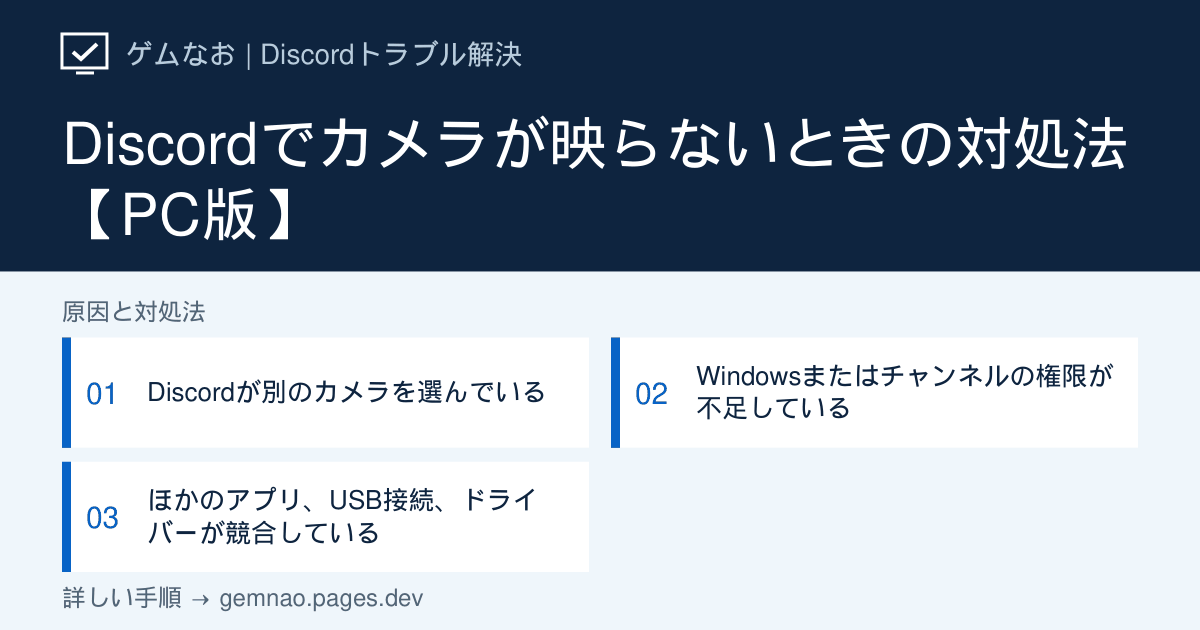
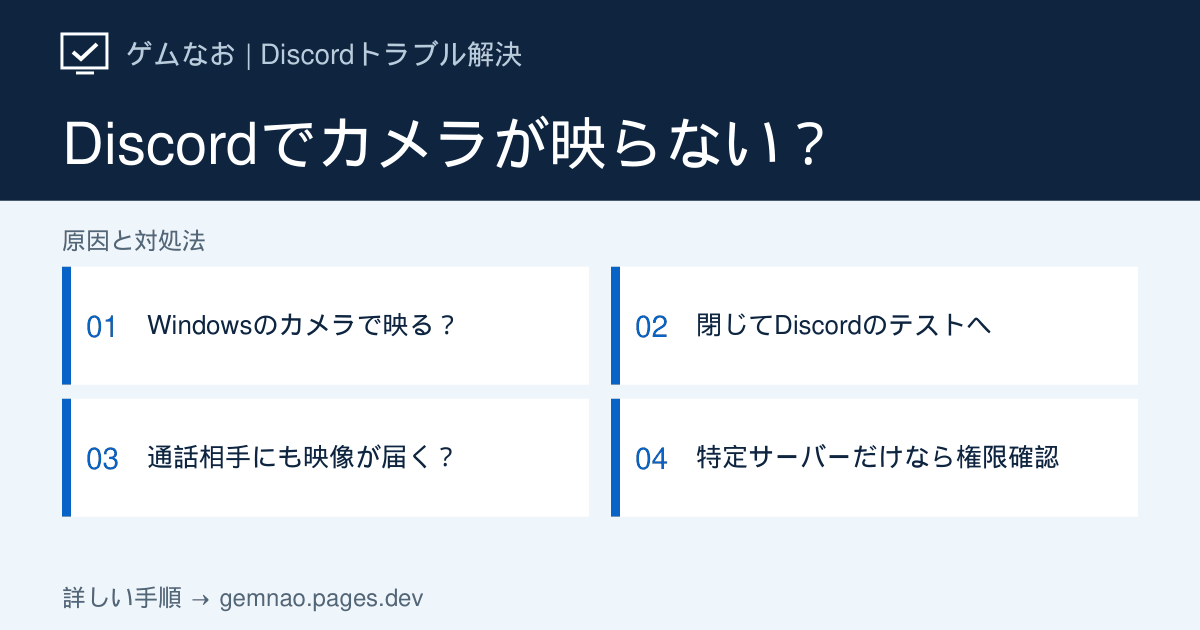
Rewrite Discord camera guide with preview and viewer diagnosis

diff --git a/lib/discord-growth-articles.ts b/lib/discord-growth-articles.ts
@@ -106,80 +106,100 @@ export const discordGrowthArticles: DiscordArticle[] = [
     status: 'verified',
   },
   {
-    slug: 'camera-not-working',
-    category: 'screen',
-    title: 'Discordでカメラが映らないときの対処法【PC版】',
+    slug: 'camera-not-working', category: 'screen',
+    title: 'Discordでカメラが映らない時の直し方【自分・相手の画面で切り分け】',
     shortTitle: 'カメラが映らない',
-    seoTitle: 'Discordでカメラが映らないときの対処法【PC版】',
-    metaDescription:
-      'Discordでカメラが映らない、黒い画面になる場合のPC向け対処法。カメラ選択、Windowsの権限、ドライバーとUSB接続を順に確認します。',
-    symptom:
-      'Discordのビデオ通話で自分の映像が出ない、プレビューが黒い、カメラを開始できない場合の手順です。カメラ自体の問題とDiscordの設定・権限を切り分けます。',
-    target: 'Windows 11 / Windows 10版 Discordデスクトップアプリ',
-    conclusion:
-      'Discordの「音声・ビデオ」で正しいカメラを選び、Windowsのカメラアクセスを許可します。次にほかのカメラ使用アプリを閉じ、USB接続とドライバーを確認してください。',
+    seoTitle: 'Discordでカメラが映らない・黒い時の直し方【Windows】',
+    metaDescription: 'Discordでカメラが映らない時は、Windowsカメラ・Discordプレビュー・相手の画面を順に比較。カメラ選択、アクセス許可、特定サーバーだけ使えない場合の確認手順を解説します。',
+    symptom: 'カメラが一覧に出ない、プレビューが黒い、自分には映るのに相手には映らない場合の手順です。ゲームの画面共有ではなく、内蔵・USBカメラのビデオ通話を対象にします。',
+    target: 'Windows 11／Windows 10のDiscordデスクトップアプリ',
+    conclusion: '最初にWindowsのカメラアプリで映るか確認し、アプリを閉じてからDiscordのビデオテストを試します。両方映らないなら機器・Windows側、Windowsだけ映るならDiscordの選択機器やデスクトップアプリの権限を確認。プレビューは映るのに相手に届かない場合は通話のカメラ開始と受信側を比較します。',
     quickFixes: [
-      'Discordの「音声・ビデオ」で使用するカメラを選び直す',
-      'Windowsのプライバシー設定でデスクトップアプリのカメラアクセスを許可する',
-      'ZoomやOBSなどカメラを使うアプリを閉じ、カメラを挿し直す',
+      'スタートで「カメラ」を検索し、Windowsのカメラアプリで映像を確認する',
+      'カメラアプリを閉じ、Discordの「音声・ビデオ」で同じカメラを選びビデオテストを行う',
+      'プレビューが映ったら通話でカメラをオンにし、相手にも映像が届くか確認する',
+    ],
+    diagnosisTitle: 'どの画面まで映る？ カメラの結果別判定表',
+    diagnosisIntro: 'Windowsカメラ・Discordのプレビュー・相手が受信した映像を区別します。カメラを使うアプリは同時に開かず、1つずつ終了して比較してください。',
+    diagnosis: [
+      { symptom: 'Windowsのカメラアプリでも黒い・機器が見つからない', check: 'レンズのカバー、カメラのスイッチ、接続、権限を確認', causeIndex: 2 },
+      { symptom: 'Windowsでは映る／Discordのプレビューは黒い', check: '同じカメラを選択し、デスクトップアプリのアクセス許可を確認', causeIndex: 3 },
+      { symptom: 'プレビューは映る／通話相手には映らない', check: '通話でカメラをオンにしたか、別の相手には届くか比較', causeIndex: 4 },
+      { symptom: 'DMでは映る／特定サーバーだけ開始できない', check: '対象チャンネルのビデオ権限を管理者に確認', causeIndex: 5 },
+      { symptom: '物理カメラは映る／仮想カメラだけ黒い', check: '仮想カメラを提供するソフトの映像出力を確認', causeIndex: 3 },
     ],
     causes: [
       {
-        title: 'Discordが別のカメラを選んでいる',
-        description:
-          '内蔵カメラとUSBカメラがあるPCでは、Discordが使っていない機器を選択している場合があります。',
+        title: 'Windows・Discord・相手の画面を順に比較する',
+        description: '設定をまとめて変える前に、どこまで映像を取得・送信できているか確認します。',
         actions: [
-          'Discordの歯車アイコンからユーザー設定を開く',
-          '「音声・ビデオ」を開き、カメラの一覧から使う機器を選ぶ',
-          'ビデオのプレビューで映像が表示されるか確認する',
+          'Discordのビデオをオフにし、Zoom・Teamsなどカメラを使うアプリを終了する。スタートで「カメラ」を検索して開く',
+          '複数のカメラがある場合は使う機器へ切り替える。レンズの前で手を動かし、映像が更新されるか確認する。エラーが出る場合は表示されたコードを控える',
+          'Windowsのカメラアプリを閉じる。Discord左下の歯車 →「音声・ビデオ」→ビデオ設定で使うカメラを選び、「ビデオをテスト」で同じ動きを確認する',
+          'Windowsでも映らないなら手順2へ。Windowsでは映るのにDiscordでは映らないなら手順3へ。プレビューが映ったら手順4で実際の通話を確認する',
+        ],
+        note: 'ビデオテストの成功は相手への送信成功とは別です。通話でカメラをオンにする操作と、相手の受信確認まで行ってください。',
+      },
+      {
+        title: 'Windowsでも映らない：カバー・接続・権限を確認',
+        description: 'Discordだけの設定を変える前に、Windowsで同じカメラを使える状態を確認します。',
+        actions: [
+          'レンズのプライバシーカバーが閉じていないか、PC本体のカメラスイッチやカメラ無効キーがオフになっていないか確認する',
+          'USBカメラはハブを介さずPCの別のUSB端子へ直接接続し、Windowsのカメラアプリで再確認する',
+          'Windows 11は「設定 → プライバシーとセキュリティ → カメラ」、Windows 10は「設定 → プライバシー → カメラ」を開く。カメラへのアクセスとカメラアプリのアクセスを許可する',
+          'まだ映らなければPCを再起動する。スタートを右クリック →「デバイス マネージャー」の「カメラ」などで機器名や警告表示を確認し、PC・カメラメーカーの対応ドライバーを確認する',
+          '別のカメラがあれば同じアプリで比較する。別機器だけ映るなら元のカメラ・接続側、両方映らないならWindowsのアクセス制限などを確認する',
+        ],
+        note: '設定が灰色で変更できない管理対象PCでは、管理者へ確認してください。権限や接続を調べる前にカメラ故障とは断定しません。',
+      },
+      {
+        title: 'Windowsだけ映る：Discordの機器選択とアクセス許可',
+        description: 'Windowsのカメラアプリで映っても、デスクトップアプリのアクセス許可やDiscordの選択機器は別に確認が必要です。',
+        actions: [
+          'Windowsのカメラアプリやほかの通話アプリを完全に終了し、Discordの「音声・ビデオ」で実際のカメラ名を選び直す',
+          'Windowsのカメラのプライバシー設定で「デスクトップ アプリがカメラにアクセスできるようにする」に相当する項目をオンにする。アプリ一覧にDiscordの個別スイッチがなくても、この設定を確認する',
+          '仮想カメラを選んでいる場合は物理カメラに切り替えて比較する。物理カメラだけ映るなら、仮想カメラを提供するソフトの起動・映像出力を確認する',
+          'Discordを終了して再起動し、再びビデオテストを行う。直らなければアプリを終了してからブラウザ版Discordで同じカメラを選び、サイトのカメラ利用を許可して比較する',
+          'ブラウザ版だけ映る場合はDiscordアプリの更新を確認する。続く場合は「音声・ビデオ」のビデオ設定でハードウェアアクセラレーションの現在値を控え、切り替えて再起動し比較する。変化がなければ元に戻す',
         ],
       },
       {
-        title: 'Windowsまたはチャンネルの権限が不足している',
-        description:
-          'Windowsのプライバシー設定や、Discordのボイスチャンネル権限でビデオが許可されていないと使用できません。',
+        title: '自分には映る：通話のカメラ開始と相手側を確認',
+        description: 'プレビューは送信前の確認画面です。相手に届かない場合は、実際の通話でカメラがオンになっているかを確認します。',
         actions: [
-          'Windowsの設定から「プライバシーとセキュリティ」→「カメラ」を開く',
-          'カメラへのアクセスと、デスクトップアプリのアクセスをオンにする',
-          '特定サーバーだけで使えない場合は、チャンネルのビデオ権限を管理者に確認する',
+          '設定画面を閉じて通話へ戻り、通話パネルのカメラアイコンでカメラをオンにする。プレビューの確認画面が出た場合は内容を確認して開始する',
+          '自分が手を動かし、相手に「映像がない」「黒い」「静止している」「動いている」のどれかを答えてもらう',
+          '可能なら別の参加者にも同じ映像を確認してもらう。1人だけ映らないなら、その相手に通話への再参加とDiscord再起動、ブラウザ版での比較を依頼する',
+          '全員に届かない場合は、自分のカメラをオフ・オンにして再確認する。DM通話で映るなら手順5へ、DMでも届かないならDiscord Statusと接続状態を確認し、可能なら別回線で比較する',
         ],
       },
       {
-        title: 'ほかのアプリ、USB接続、ドライバーが競合している',
-        description:
-          '別のアプリがカメラを使用中、またはUSB接続やドライバーに問題があるとDiscordから映像を取得できません。',
+        title: '特定サーバーだけ映らない：ビデオ権限を確認',
+        description: '同じ機器でDM通話は映るのに特定のボイスチャンネルだけ開始できない場合は、サーバー・チャンネルの条件を確認します。',
         actions: [
-          'Zoom、Teams、OBS、ブラウザなどカメラを使うアプリを終了する',
-          'USBカメラを別のUSBポートへ直接接続する',
-          'Windowsのカメラアプリで映像が出るか確認する',
-          'PCメーカーまたはカメラメーカーの公式手順でドライバーを更新する',
-          'Discordだけで黒画面になる場合はハードウェアアクセラレーションを切り替えて再起動する',
+          '同じ相手とのDM通話と、問題のボイスチャンネルで結果を比較する。別チャンネルでは開始できるかも確認する',
+          'サーバー管理者に「サーバー設定 → ロール」の対象ロールで「ビデオ」権限が許可されているか確認してもらう',
+          '対象ボイスチャンネルの編集画面 →「権限」で、ロールや個人への上書き設定も確認してもらう',
+          '必要な権限を変更したら入り直してカメラをオンにし、相手に映像が届くか再確認する。エラーや人数制限の表示がある場合は、その文言も管理者へ伝える',
         ],
       },
     ],
-    ifNotFixed:
-      'ブラウザ版DiscordとWindowsのカメラアプリで映るか確認してください。どちらでも映らない場合はDiscordではなく、カメラ本体・Windows・ドライバー側の問題です。Discordだけで再現する場合は、カメラ名と試した手順を添えて公式サポートへ連絡してください。',
+    ifNotFixed: 'Windowsカメラ／Discordプレビュー／相手の受信画面の結果、カメラ名、内蔵・USB・仮想の種別、DMとサーバーの違い、エラー文言を控えてください。Windowsでも映らない場合はPC・カメラメーカー、Discordだけの場合はDiscord公式サポートへ、この比較結果と試した操作を伝えます。',
     faqs: [
-      {
-        question: 'カメラは映るのに特定のサーバーだけビデオを開始できません',
-        answer:
-          'そのボイスチャンネルでビデオ権限が許可されているか、サーバー管理者に確認してください。端末側の設定が正常でもチャンネル権限で制限される場合があります。',
-      },
-      {
-        question: 'プレビューが黒い場合も同じ手順ですか？',
-        answer:
-          'はい。カメラ選択、Windowsの権限、ほかのアプリの終了を先に確認します。Discordだけ黒い場合は描画設定やGPUドライバーも切り分けてください。',
-      },
-      {
-        question: '仮想カメラも使えますか？',
-        answer:
-          'カメラ一覧に表示される場合は選択できます。ただし映らない場合は、仮想カメラを提供するアプリが起動しているか、そのアプリ側の映像出力を確認してください。',
-      },
+      { question: 'Windowsのカメラでは映るのにDiscordでは黒いのはなぜですか？', answer: 'Discordで選んだ機器が違う、別アプリが使用中、デスクトップアプリのアクセスが許可されていないなどの可能性があります。カメラアプリを閉じてから同じ機器で再テストしてください。' },
+      { question: 'Windowsの許可一覧にDiscordがありません', answer: 'デスクトップアプリはMicrosoft Storeアプリと同じ個別スイッチ一覧に出ない場合があります。カメラのプライバシー設定にある、デスクトップアプリへのアクセス許可を確認してください。' },
+      { question: '自分のプレビューが映れば、相手にも映っていますか？', answer: 'プレビューだけでは送信成功を確認できません。通話へ戻ってカメラをオンにし、相手に映像が動いているか確認してもらってください。' },
+      { question: 'ゲームの画面共有が黒い場合も同じ手順ですか？', answer: 'この記事はカメラのビデオ通話が対象です。ゲームやデスクトップを共有した映像だけ黒い場合は、関連記事「画面共有の黒画面」で共有対象と視聴者側を比較してください。' },
     ],
-    sources: [voiceVideoGuide],
-    related: ['screen-share-black-screen', 'screen-share-not-working', 'error-1001'],
-    checkedAt: '2026-09-19',
-    status: 'verified',
+    sources: [voiceVideoGuide,
+      { label: 'Discord公式：ビデオ通話・カメラテスト・ビデオ権限', url: 'https://support.discord.com/hc/ja/articles/360041721052' },
+      { label: 'Microsoft公式：Windowsでカメラが機能しない場合', url: 'https://support.microsoft.com/ja-jp/windows/hardware/camera/camera-doesn-t-work-in-windows' },
+      { label: 'Microsoft公式：カメラへのアプリのアクセス許可', url: 'https://support.microsoft.com/ja-jp/windows/privacy/manage-app-permissions-for-a-camera-in-windows' },
+    ],
+    related: ['screen-share-black-screen', 'screen-share-not-working', 'stream-stuttering'],
+    checkedAt: '2026-09-28', status: 'verified',
+    ogTitle: 'Discordでカメラが映らない？',
+    ogSteps: ['Windowsのカメラで映る？', '閉じてDiscordのテストへ', '通話相手にも映像が届く？', '特定サーバーだけなら権限確認'],
   },
   {
     slug: 'login-error',

diff --git a/lib/og-image-manifest.ts b/lib/og-image-manifest.ts
@@ -7,7 +7,7 @@ export const ogImageManifest: Record<string, string> = {
   "/discord/bot-not-responding": "ee315b02",
   "/discord/bot-remove": "b35c5c5b",
   "/discord/call-disconnects": "c75567e6",
-  "/discord/camera-not-working": "7ef95e75",
+  "/discord/camera-not-working": "1a81ecf4",
   "/discord/crashing": "835e2bab",
   "/discord/echo-double-voice": "bf3f502a",
   "/discord/error-1001": "7cb71244",
